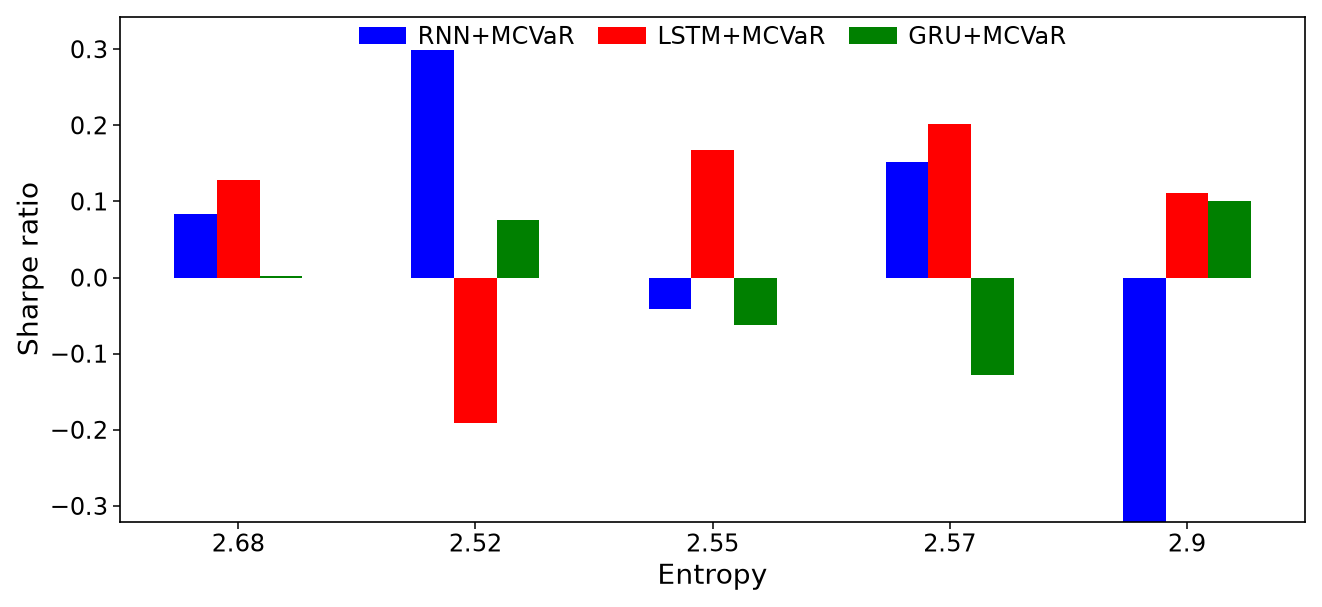
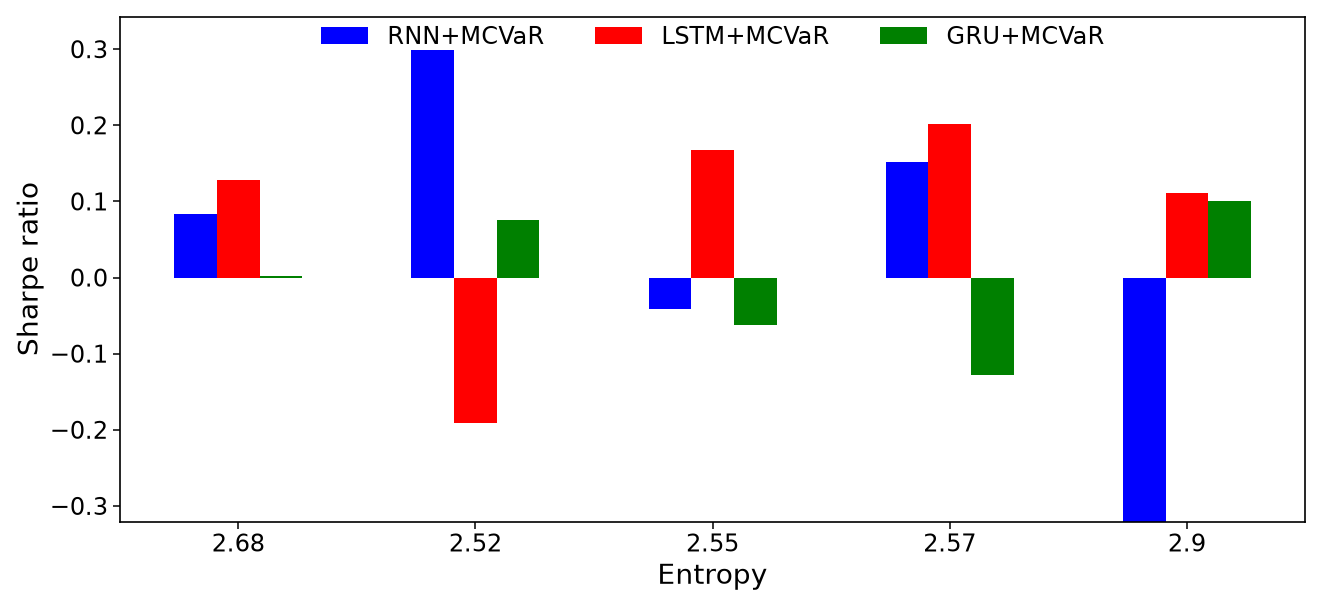
fix(figures): 对齐 Fig8 图例内部间距，并记录柱状图基线的程序化核查
- `grouped_bars` 新增 `legend_handletextpad` / `legend_columnspacing` 参数，默认值保持原样，
  Fig2/3/4 不受影响。
- Fig8 图例改用 `handletextpad=0.83` / `columnspacing=2.12`：按 17 pt 字号与字形侧边距
  的标定模型，从对照图实测的「色块→文字」23 px、「文字→下一个色块」51 px 反解得到；
  重渲染后复测 22 px / 52 px（残差 ≤1 px，属 JPEG 对照图的量测噪声量级）。
- 脚本内嵌的图集 README 模板与根 README §9.13 第 10 条同步更新：说明 Fig8 的图例间距
  是逐张量取的例外，并写明 Fig8 的 15 根柱子经程序化逐柱核对（patch 下沿数据坐标全为 0）
  全部锚定同一根 y=0 基线，0 基线落在坐标区中部约 277 px 是因为我们的夏普跨零
  （−0.32 … +0.30），属数据差异而非画法差异。
- 重渲染后 11 张图中仅 `fig08_entropy_sharpe_ratio.png` 字节变化，其余 10 张与 HEAD
  逐字节一致（MD5 逐个核对）。
- 验证：`scripts/07_verify_readme.py` 802/802；`pytest -q` 134 passed。

Changed region(s): [[0.4962, 0.0297, 0.8374, 0.089], [0.2481, 0.0297, 0.4342, 0.089]]

diff --git a/scripts/09_reference_figures.py b/scripts/09_reference_figures.py
@@ -244,7 +244,8 @@ def grouped_bars(out_dir: Path, name: str, panel: dict, groups: Sequence[str],
                  values: Dict[str, Sequence[float]], colors: Sequence[str],
                  xlabel: str, ylabel: str, figsize: Tuple[float, float],
                  ylim: Optional[Tuple[float, float]] = None,
-                 ncol: int = 5) -> None:
+                 ncol: int = 5, legend_handletextpad: float = 0.5,
+                 legend_columnspacing: float = 1.0) -> None:
     paper_style()
     fig, ax = plt.subplots(figsize=figsize)
     n_series = len(values)
@@ -277,7 +278,8 @@ def grouped_bars(out_dir: Path, name: str, panel: dict, groups: Sequence[str],
     # out of tight_layout: otherwise the wide 5-column legend shrinks the drawing area
     # (ref fig2: axes 1192 px wide / 18 px right margin; with the legend laid out: 1037 / 144).
     leg = ax.legend(loc="upper center", ncol=ncol, frameon=False, borderaxespad=0.0,
-                    columnspacing=1.0, handlelength=2.0, handletextpad=0.5, fontsize=17.0)
+                    columnspacing=legend_columnspacing, handlelength=2.0,
+                    handletextpad=legend_handletextpad, fontsize=17.0)
     leg.set_in_layout(False)
     fig.tight_layout(pad=0.7)
     save(fig, out_dir, name, panel)
@@ -486,9 +488,16 @@ def figure_entropy_sweep(out_dir: Path, dirs: Sequence[Path]) -> None:
             if (l, a) not in rows
         ],
     }
+    # Fig8's legend is the one bar legend of the reference set that is laid out with a wider
+    # handle-text gap and a wider inter-column gap than fig2/3/4 (which use 0.5 em / 1.0 em).
+    # Target geometry measured on D:\figures: patch -> text 23 px, text -> next patch 51.5 px.
+    # With the saved font size (17 pt at 100 dpi = 23.62 px per em) and the glyph side
+    # bearings of this font (+3.0 px after the patch, +1.5 px after the text), that is
+    # handletextpad 0.83 em and columnspacing 2.12 em.
     grouped_bars(out_dir, "fig08_entropy_sharpe_ratio.png", panel, xlabels, values,
                  ENT_COLORS, xlabel="Entropy", ylabel="Sharpe ratio",
-                 figsize=(13.22, 6.07), ncol=len(ENT_ARCHS))
+                 figsize=(13.22, 6.07), ncol=len(ENT_ARCHS),
+                 legend_handletextpad=0.83, legend_columnspacing=2.12)
 
     # two stacked panels: no diversification vs the default regularisation
     panels_series = []
@@ -746,9 +755,13 @@ README_TEMPLATE = """# 复刻图（用我们自己的实验结果画）
   与我们的 37.1 px 一致）。
 * 柱状图：柱簇总宽 = min(0.78, 0.18×系列数) 个横轴单位、柱子紧邻（间隙 0），
   x 轴范围 = (-0.5, 组数−0.5)，y 轴顶部 = max + 7% 极差、底部 = 0（全为正时柱子贴底）；
-  图例 `loc='upper center'` 且贴住轴顶（`borderaxespad=0`）、列间距 `columnspacing=1.0`，
-  且**不参与 `tight_layout`**（`set_in_layout(False)`）—— 否则居中的 5 列宽图例会把绘图区
-  压窄 ≈160 px（对照图实测绘图区宽 1192 px，我们设了 `set_in_layout(False)` 后为 1193 px）。
+  图例 `loc='upper center'` 且贴住轴顶（`borderaxespad=0`），且**不参与 `tight_layout`**
+  （`set_in_layout(False)`）—— 否则居中的 5 列宽图例会把绘图区压窄 ≈160 px
+  （对照图实测绘图区宽 1192 px，我们设了 `set_in_layout(False)` 后为 1193 px）。
+  图例内部间距按张量取：Fig2/3/4 用 `columnspacing=1.0` + `handletextpad=0.5`；
+  **Fig8 的图例间距明显更宽**（对照图实测「色块→文字」23 px、「文字→下一个色块」51 px），
+  按 17 pt 字号（1 em = 23.62 px）与字形侧边距反解得 `handletextpad=0.83`、
+  `columnspacing=2.12`，复测为 22 px / 52 px（±1 px，属 JPEG 对照图的量测误差量级）。
 * 折线图：y 轴沿用 matplotlib 默认的 5% 边距；**纵轴是 0 起算的累计收益**
   （Π(1+r)−1），不是从 1 起算的净值 —— 与对照图一致（对照图的刻度里有 0.0）。
 * 横轴刻度沿用 matplotlib 的默认浮点格式（`0.016` … `0.028`；Fig8 是 `2.55` … `2.75`）；
@@ -780,8 +793,11 @@ README_TEMPLATE = """# 复刻图（用我们自己的实验结果画）
    现已改成同样的 0 起算口径（形状不变，刻度整体下移 1.0）。
 8. **Fig8 的柱子**：对照图里所有夏普都为正、柱子贴住下边界；我们的夏普在三折上跨零
    （−0.32 … +0.30，主要来自 2020–2021 折的普遍为负，这是真实的样本外结果，
-   见 §9.12.1），所以下边界落在最小值上、柱高有正有负。其他几何量（柱簇宽度、x 轴范围、
-   顶部 7% 留白、图例 18 pt / 色块 2.0 字号）已按对照图对齐。
+   见 §9.12.1），所以下边界落在最小值上、柱高有正有负。**这是 Fig8 与对照图看起来差得
+   最大的地方，但它是数据差、不是画法差**：15 根柱子的矩形下沿在数据坐标上全部等于 0，
+   即全部从同一根 y=0 基线出发（程序化逐柱核对），只是这根 0 基线此时落在坐标区中部
+   （≈277 px）而非贴住下边界。其余几何量（柱簇宽度、x 轴范围、顶部 7% 留白、
+   图例 17 pt / 色块 2.0 字号 / 图例内部间距）已按对照图逐像素对齐。
 9. **对照图自身的两处不一致**（我们没有照抄）：a) Fig10 的字号明显小于其余图
    （实测约 11 pt 对比 17 pt），我们保持全套统一；b) Fig2/3/4 的柱簇整体右移了一个柱宽
    （柱簇中心落在 1.5、2.5 … 而不是 1、2 …），我们按 matplotlib 的正常做法让柱簇居中。

diff --git a/results/figures_reference/README.md b/results/figures_reference/README.md
@@ -31,9 +31,13 @@
   与我们的 37.1 px 一致）。
 * 柱状图：柱簇总宽 = min(0.78, 0.18×系列数) 个横轴单位、柱子紧邻（间隙 0），
   x 轴范围 = (-0.5, 组数−0.5)，y 轴顶部 = max + 7% 极差、底部 = 0（全为正时柱子贴底）；
-  图例 `loc='upper center'` 且贴住轴顶（`borderaxespad=0`）、列间距 `columnspacing=1.0`，
-  且**不参与 `tight_layout`**（`set_in_layout(False)`）—— 否则居中的 5 列宽图例会把绘图区
-  压窄 ≈160 px（对照图实测绘图区宽 1192 px，我们设了 `set_in_layout(False)` 后为 1193 px）。
+  图例 `loc='upper center'` 且贴住轴顶（`borderaxespad=0`），且**不参与 `tight_layout`**
+  （`set_in_layout(False)`）—— 否则居中的 5 列宽图例会把绘图区压窄 ≈160 px
+  （对照图实测绘图区宽 1192 px，我们设了 `set_in_layout(False)` 后为 1193 px）。
+  图例内部间距按张量取：Fig2/3/4 用 `columnspacing=1.0` + `handletextpad=0.5`；
+  **Fig8 的图例间距明显更宽**（对照图实测「色块→文字」23 px、「文字→下一个色块」51 px），
+  按 17 pt 字号（1 em = 23.62 px）与字形侧边距反解得 `handletextpad=0.83`、
+  `columnspacing=2.12`，复测为 22 px / 52 px（±1 px，属 JPEG 对照图的量测误差量级）。
 * 折线图：y 轴沿用 matplotlib 默认的 5% 边距；**纵轴是 0 起算的累计收益**
   （Π(1+r)−1），不是从 1 起算的净值 —— 与对照图一致（对照图的刻度里有 0.0）。
 * 横轴刻度沿用 matplotlib 的默认浮点格式（`0.016` … `0.028`；Fig8 是 `2.55` … `2.75`）；
@@ -65,8 +69,11 @@
    现已改成同样的 0 起算口径（形状不变，刻度整体下移 1.0）。
 8. **Fig8 的柱子**：对照图里所有夏普都为正、柱子贴住下边界；我们的夏普在三折上跨零
    （−0.32 … +0.30，主要来自 2020–2021 折的普遍为负，这是真实的样本外结果，
-   见 §9.12.1），所以下边界落在最小值上、柱高有正有负。其他几何量（柱簇宽度、x 轴范围、
-   顶部 7% 留白、图例 18 pt / 色块 2.0 字号）已按对照图对齐。
+   见 §9.12.1），所以下边界落在最小值上、柱高有正有负。**这是 Fig8 与对照图看起来差得
+   最大的地方，但它是数据差、不是画法差**：15 根柱子的矩形下沿在数据坐标上全部等于 0，
+   即全部从同一根 y=0 基线出发（程序化逐柱核对），只是这根 0 基线此时落在坐标区中部
+   （≈277 px）而非贴住下边界。其余几何量（柱簇宽度、x 轴范围、顶部 7% 留白、
+   图例 17 pt / 色块 2.0 字号 / 图例内部间距）已按对照图逐像素对齐。
 9. **对照图自身的两处不一致**（我们没有照抄）：a) Fig10 的字号明显小于其余图
    （实测约 11 pt 对比 17 pt），我们保持全套统一；b) Fig2/3/4 的柱簇整体右移了一个柱宽
    （柱簇中心落在 1.5、2.5 … 而不是 1、2 …），我们按 matplotlib 的正常做法让柱簇居中。
